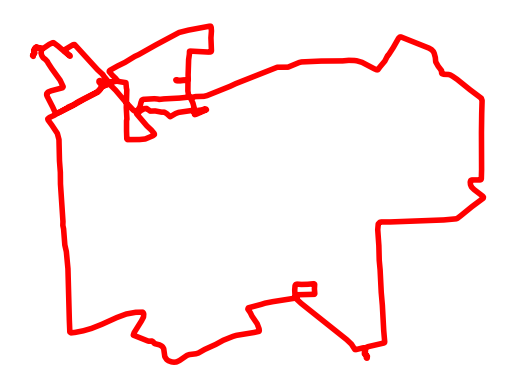
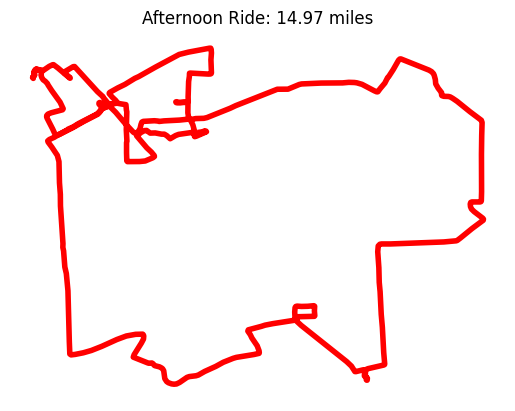
Add title to strava image

Changed region(s): [[0.0621, 0.0, 0.9631, 0.5244], [0.0932, 0.5861, 0.7767, 0.9563], [0.7146, 0.4319, 0.9631, 0.7404]]

diff --git a/gen_strava_map.py b/gen_strava_map.py
@@ -22,11 +22,15 @@ def get_polyline_data(access_token, page):
     data = requests.get(activities_url, headers=headers, params=params).json()
     polyline_data = data[0]['map']['summary_polyline']
     polyline_data = polyline.decode(polyline_data)
-    return polyline_data
+    strava_activity_title = data[0]['name']
+    strava_mileage = data[0]['distance']
+    # Convert meters to miles
+    strava_mileage = round(strava_mileage * 0.000621371, 2)
+    return polyline_data, strava_activity_title, strava_mileage
 
 
 # Plot polyline data using matplotlib
-def plot_polyline(polyline_data):
+def plot_polyline(polyline_data, strava_activity_title, strava_mileage):
     activity_longitude = []
     activity_latitude = []
     for point in polyline_data:
@@ -35,13 +39,14 @@ def plot_polyline(polyline_data):
    
     plt.plot(activity_longitude, activity_latitude, 'r-', alpha=1, linewidth=4)
     plt.axis('off')
+    plt.title(strava_activity_title + ': '+ str(strava_mileage) + ' miles')
     plt.savefig('map.png', bbox_inches='tight', bbox_extra_artists=[], transparent=True)
     plt.show()
 
 
 
-polyline_data = get_polyline_data(access_token, 1)
+polyline_data, strava_activity_title, strava_mileage = get_polyline_data(access_token, 1)
 print('Polyline data retrieved')
 print(polyline_data)
 
-plot_polyline(polyline_data)
+plot_polyline(polyline_data, strava_activity_title, strava_mileage)
